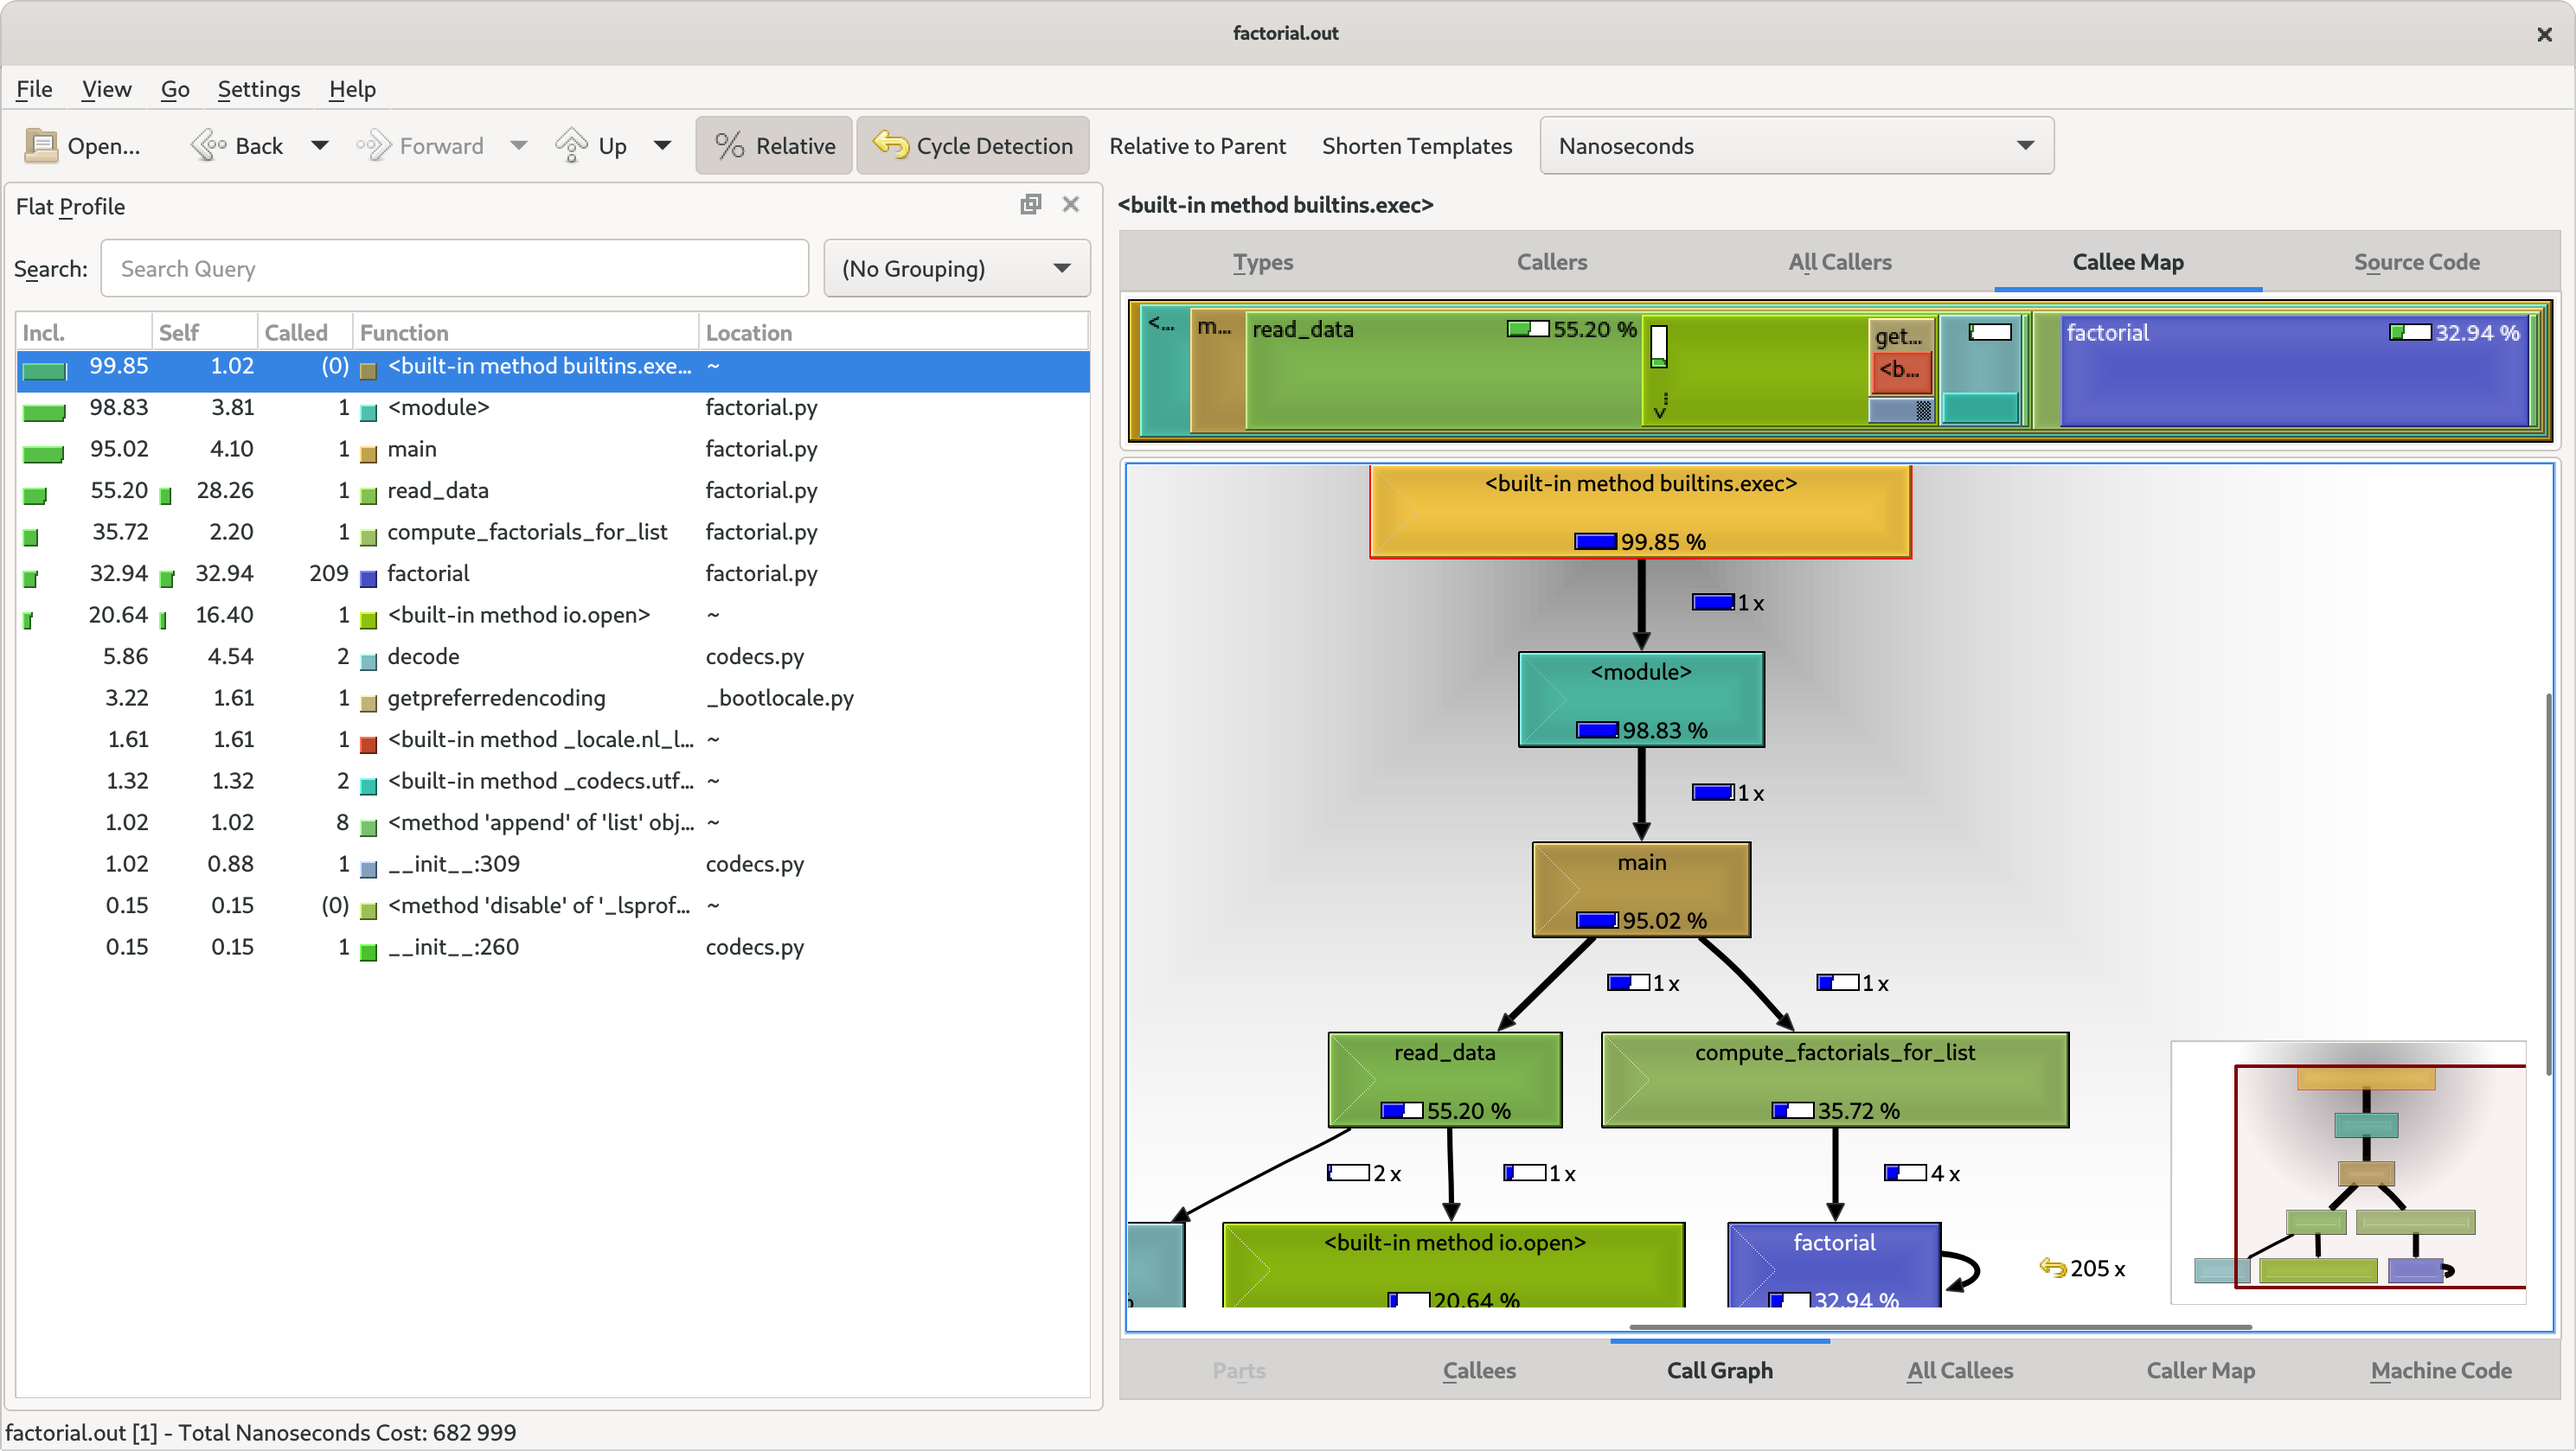
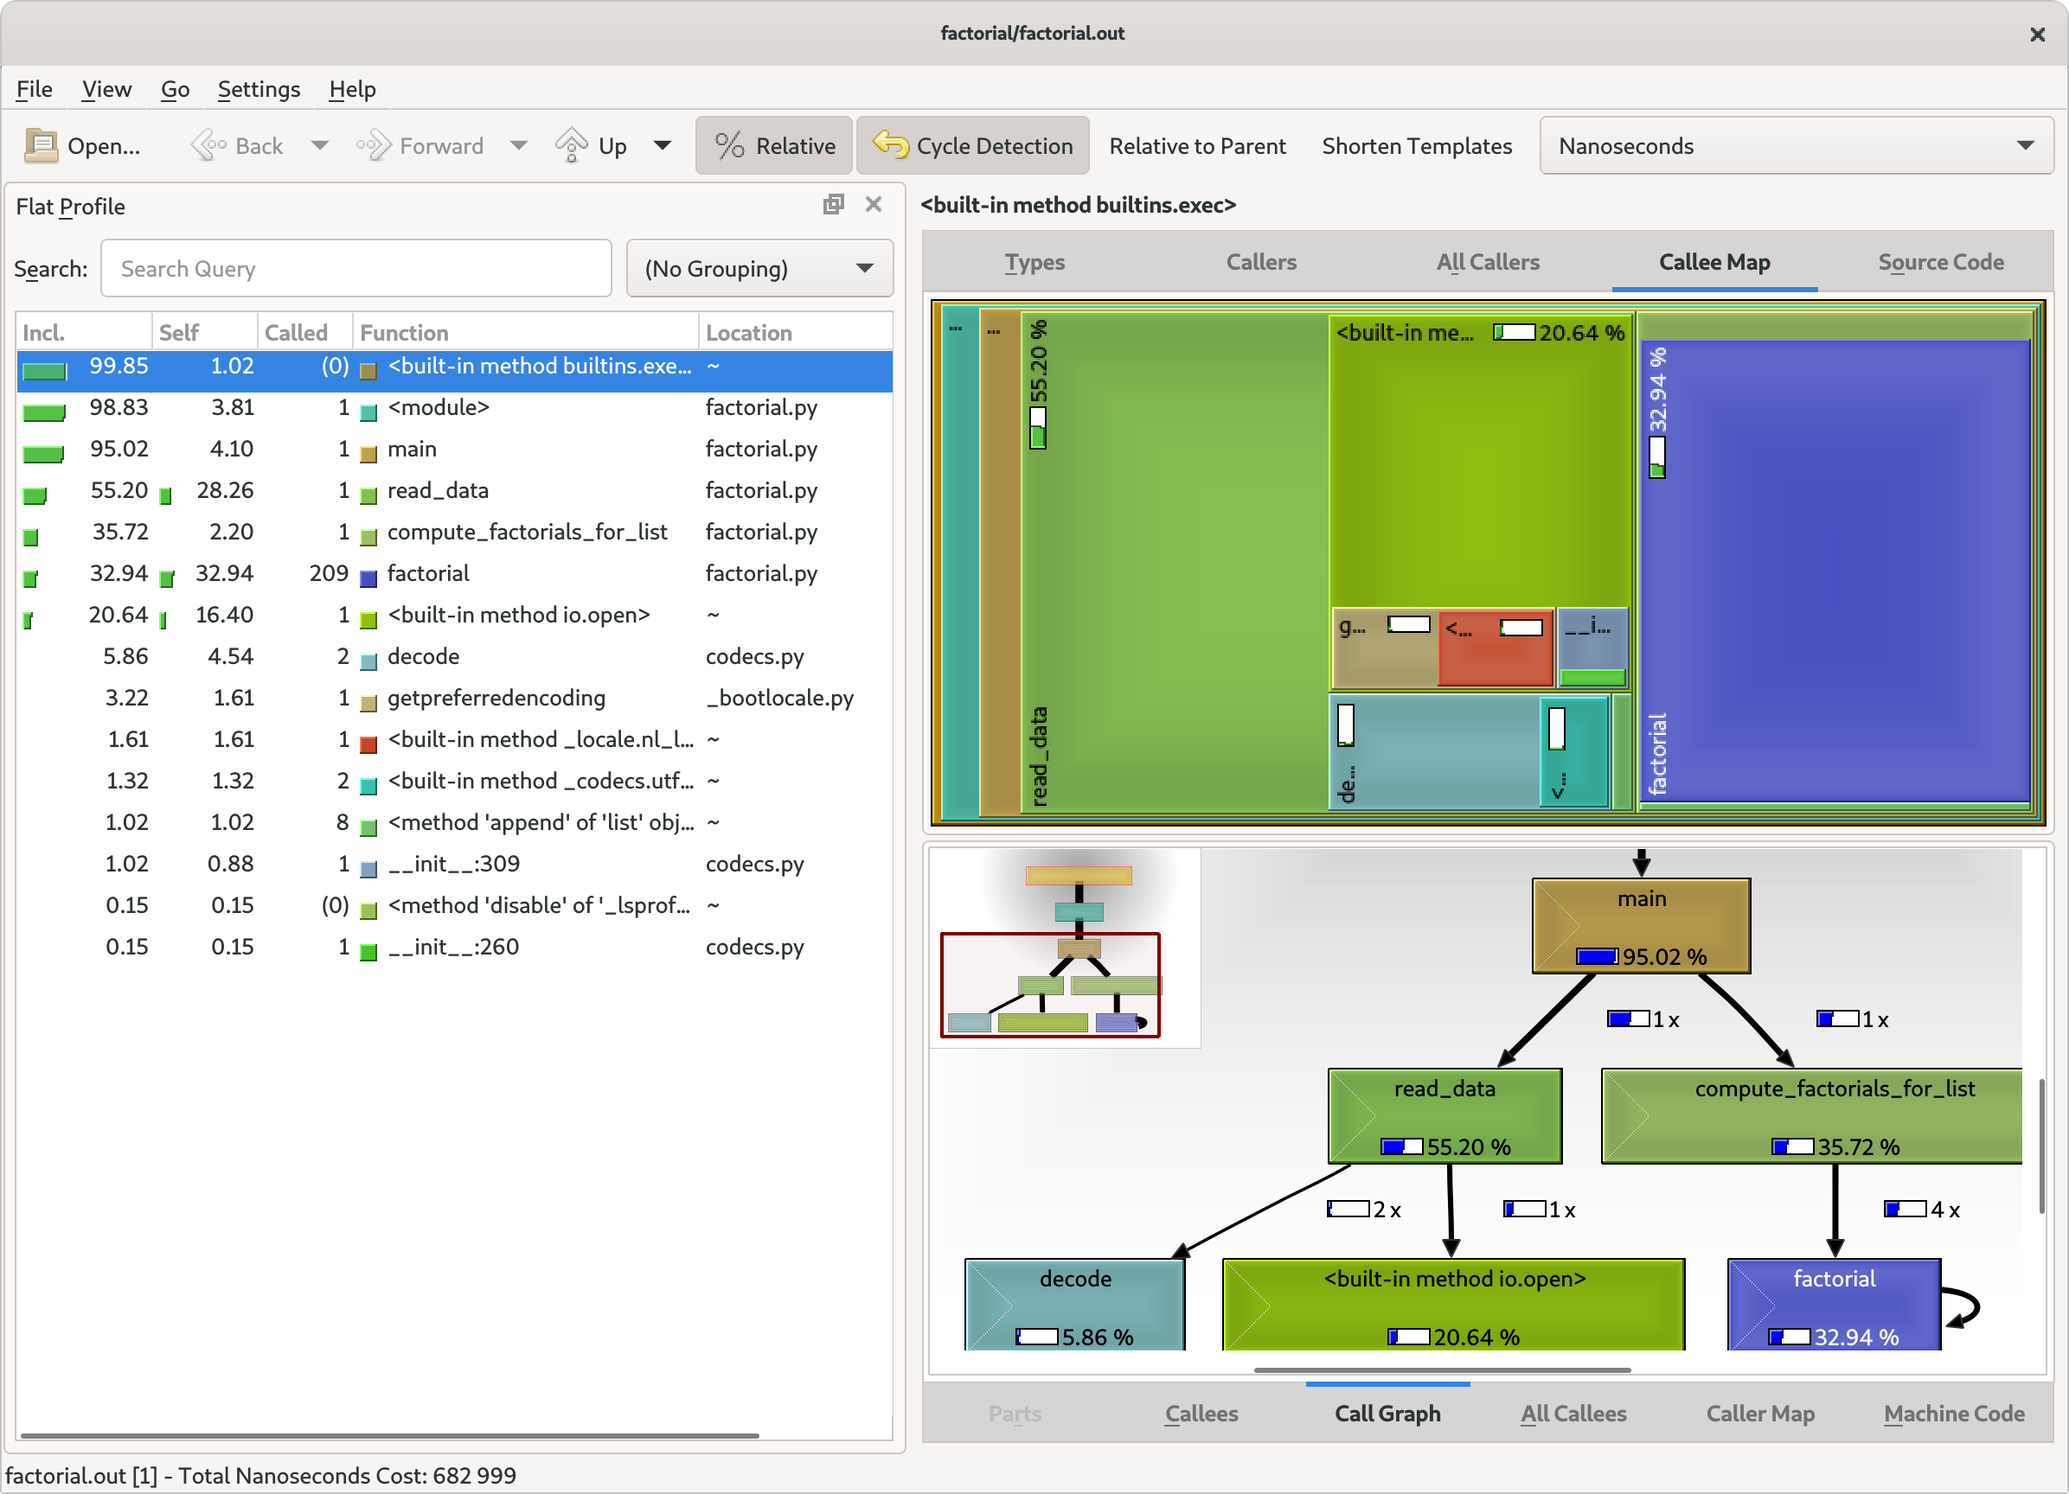
Almost first version

diff --git a/profiling.tex b/profiling.tex
@@ -1,0 +1,184 @@
+\documentclass[serif]{beamer}
+%\usepackage[utopia]{mathdesign}
+%\usepackage[no-math]{fontspec}
+%\setmainfont{Liberation Serif}
+
+\usepackage{minted}
+\usepackage{hyperref}
+\usepackage{ccicons}
+\usepackage{ulem}
+
+% \usepackage{tikz}
+% \usetikzlibrary{arrows,shapes,snakes,automata,backgrounds,petri}
+
+%gets rid of bottom navigation bars
+\setbeamertemplate{footline}[page number]{}
+
+%gets rid of navigation symbols
+\setbeamertemplate{navigation symbols}{}
+
+\title{Profiling and optimizing python code}
+\author{Zbigniew Jędrzejewski-Szmek}
+\institute{%
+  \includegraphics[width=10em]{images/Logo-redhat-color-375.png}\\
+  \medskip
+  \textit{zbyszek@in.waw.pl}\\
+  \medskip
+  \ccbysa
+}
+\date{\tiny Stuttgart, 2020.01.21}
+
+\begin{document}
+\begin{frame}
+\titlepage % Print the title page as the first slide
+\end{frame}
+
+\begin{frame}
+  \frametitle{Lecture links}
+
+  \url{https://github.com/IMS-workshop/profiling-lecture}
+\end{frame}
+
+\begin{frame}
+  \frametitle{What is optimization?}
+
+  ``Program optimization or software optimization is the process of
+  modifying a software system to make some aspect of it work more
+  efficiently or use fewer resources.''
+
+  \hfill Wikipedia
+\end{frame}
+
+\begin{frame}
+  ``Optimization is the root of all evil.''
+
+  \hfill Donald Knuth
+\end{frame}
+
+\begin{frame}
+  \includegraphics[width=\textwidth]{images/is_it_worth_the_time_2x.png}
+
+  \hfill
+  \href{https://xkcd.com/1205/}{xkcd.com/1205}
+  \includegraphics[height=1em]{images/240px-Cc-by-nc_icon.png}
+\end{frame}
+
+\begin{frame}
+  \frametitle{Premature optimization}
+
+  ``Programmers waste enormous amounts of time thinking about, or
+  worrying about, the speed of noncritical parts of their programs,
+  and these attempts at efficiency actually have a strong negative
+  impact when debugging and maintenance are considered. We should
+  forget about small efficiencies, say about 97\% of the time:
+  premature optimization is the root of all evil. Yet we should not
+  pass up our opportunities in that critical 3\%.''
+
+  \hfill Donald Knuth
+\end{frame}
+
+\begin{frame}
+  \frametitle{Optimization workflow}
+
+  \begin{enumerate}
+  \item \textbf{Make it work}: write the code in a simple legible way
+
+  \item \textbf{Make it work reliably}: write automated test cases,
+    make really sure that your algorithm is right and that if you
+    break it, the tests will capture the breakage.
+
+  \item Optimize the code by profiling simple use-cases to
+    \textbf{find the bottlenecks} and speed up these bottlenecks,
+    finding a better algorithm, or implementation.
+    Keep in mind the tradeoff between simplicity and reliability
+    and speed of exection of the code.
+  \end{enumerate}
+\end{frame}
+
+\begin{frame}
+  \frametitle{\texttt{\%timeit}}
+
+  demo
+\end{frame}
+
+\begin{frame}[fragile]
+  \frametitle{\texttt{time} shell builtin}
+
+  On *nix systems, the command time gives a quick way of measuring time:
+
+  \begin{minted}{console}
+$ time find /usr -name idontexist
+1.91s user 4.32s system 36% cpu 17.279 total
+    
+$ time sleep 5
+0.00s user 0.00s system 0% cpu 5.005 total
+  \end{minted}
+
+``total'' or ``real'' is wall clock time\\
+``user'' is CPU time executing the script\\
+``system'' or ``sys'' is CPU time spent in system calls
+\end{frame}
+
+\begin{frame}[fragile]
+  \frametitle{\texttt{cProfile}}
+
+  standard Python module to profile an entire application\\
+  (profile is an old, slow profiling module)
+
+  \bigskip
+
+  Running the profiler from command line:
+  \begin{minted}{console}
+$ python -m cProfile -s cumtime myscript.py
+  \end{minted}
+
+  \bigskip
+
+  Sorting options:
+  \begin{itemize}
+    \item
+      tottime : time spent in function only
+    \item
+      cumtime : time spent in function and sub-calls
+    \item
+      calls   : number of calls
+  \end{itemize}
+\end{frame}
+
+\begin{frame}[fragile]
+  \frametitle{\texttt{cProfile}}
+
+  Save results to disk:
+  \begin{minted}{console}
+$ python -m cProfile -o filename.prof myscript.py
+  \end{minted}
+  
+  Explore:
+  \begin{minted}{console}
+$ python -m pstats filename.prof
+
+filename.prof% help
+
+stats [n | regexp]: print statistics
+sort [cumulative, time, ...] : change sort order
+callers [n | regexp]: show callers of functions
+callees [n | regexp]: show callees of functions
+...
+  \end{minted}
+\end{frame}
+
+\begin{frame}
+  \includegraphics[width=\textwidth]{factorial/kcachegrind.png}
+\end{frame}
+
+\begin{frame}
+  \frametitle{\texttt{kernprof}}
+
+\end{frame}
+
+\begin{frame}
+  \frametitle{\texttt{pysnooper}}
+
+\end{frame}
+
+\end{document}

diff --git a/factorial/factorial.py b/factorial/factorial.py
@@ -25,7 +25,7 @@ def compute_factorials_for_list(numbers):
     
 
 def main():
-    numbers = read_data('numbers.txt')
+    numbers = read_data('numbers_small.txt')
     factorials = compute_factorials_for_list(numbers)
 
 
